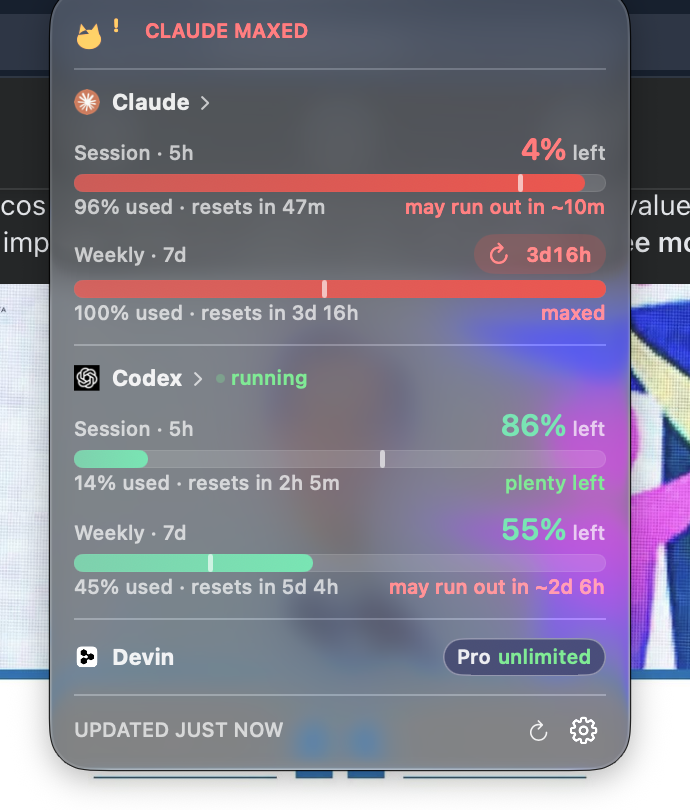
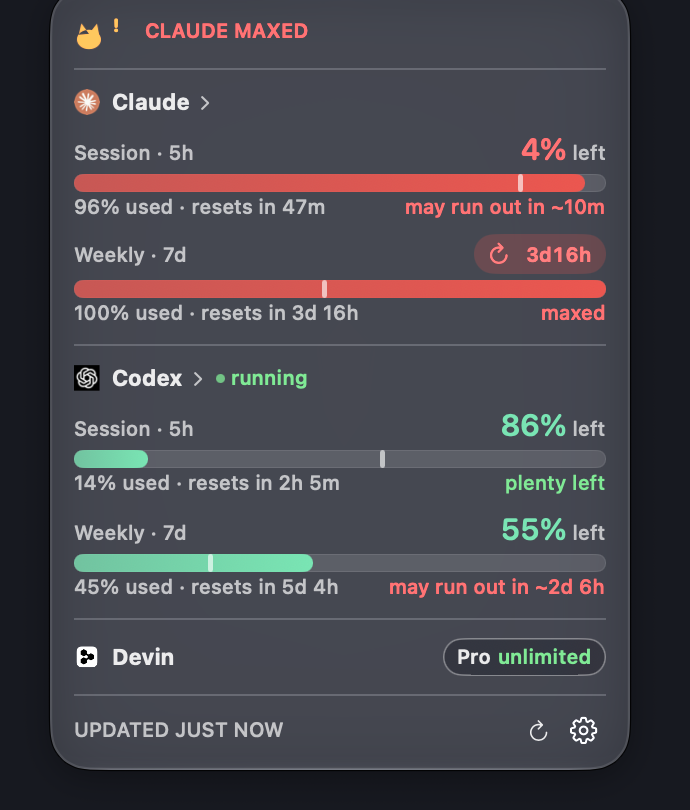
Add demo gif, social card, meow sound, Homebrew cask, landing sync
- demo.gif: recorded popover demo for README/social use
- social.png: 1280x640 social preview card
- meow.caf + MeowSound: optional chirp on limit reset (Settings toggle, off by default)
- Casks/meowbar.rb: Homebrew cask ready for a homebrew-meowbar tap repo
- index.html: download links now point at GitHub Releases; new pace/history cards
- preview.png: regenerated over a dark backdrop for cleaner glass

Generated with [Devin](https://devin.ai)

diff --git a/index.html b/index.html
@@ -292,7 +292,7 @@
       MeowBar
     </a>
     <div class="nav-links">
-      <a href="MeowBar.dmg" class="nav-btn" download>Download</a>
+      <a href="https://github.com/debugged-me/MeowBar/releases/latest/download/MeowBar.dmg" class="nav-btn">Download</a>
     </div>
   </div>
 </nav>
@@ -300,8 +300,8 @@
 <header class="hero">
   <h1 class="hero-title">Your AI limits,<br>in the menu bar.</h1>
   <p class="hero-desc">A tiny native app that reads your existing Claude Code and Codex sign-ins and shows how much of each limit you have left. No accounts, no API keys.</p>
-  <a class="hero-btn" href="MeowBar.dmg" download>Download for macOS</a>
-  <p class="hero-meta" id="dl-meta">v1.1 · Apple Silicon · macOS 14+ · free</p>
+  <a class="hero-btn" href="https://github.com/debugged-me/MeowBar/releases/latest/download/MeowBar.dmg">Download for macOS</a>
+  <p class="hero-meta" id="dl-meta">v1.2 · Apple Silicon · macOS 14+ · free</p>
 </header>
 
 <section class="demo" aria-label="What MeowBar looks like">
@@ -379,6 +379,20 @@
         </span>
         <h3 class="card-name">Private by design</h3>
         <p class="card-text">No sign-in, no analytics, no telemetry. It reads the credentials already on your Mac and only calls the endpoints your CLIs use.</p>
+      </div>
+      <div class="card">
+        <span class="card-icon">
+          <svg viewBox="0 0 24 24" fill="none" stroke="currentColor" stroke-width="1.8" aria-hidden="true"><path d="M4.5 19a9 9 0 1115 0"/><path d="M12 13l4-5"/><circle cx="12" cy="13" r="1.4" fill="currentColor"/></svg>
+        </span>
+        <h3 class="card-name">Pace, not just points</h3>
+        <p class="card-text">Every bar knows where an even burn would be — and tells you in green, orange or red: <em>plenty left</em>, <em>cutting it close</em>, <em>may run out in ~2d</em>. The menu bar can even show time until empty.</p>
+      </div>
+      <div class="card">
+        <span class="card-icon">
+          <svg viewBox="0 0 24 24" fill="none" stroke="currentColor" stroke-width="1.8" aria-hidden="true"><path d="M3 3v18h18"/><path d="M7 14l4-4 4 3 5-7"/></svg>
+        </span>
+        <h3 class="card-name">History &amp; alerts</h3>
+        <p class="card-text">Click a provider for its last 7 days and a 24h burn sparkline. Nudges at 75/90/95% and on reset — and right-click the bar for a full menu.</p>
       </div>
       <div class="card">
         <span class="card-icon">

diff --git a/MeowBar/Sources/main.swift b/MeowBar/Sources/main.swift
@@ -153,6 +153,7 @@ final class UsageStore: ObservableObject {
                     for (a, b) in [(old.session, u.session), (old.weekly, u.weekly)]
                     where (a?.usedPercent ?? 0) - (b?.usedPercent ?? 0) >= 40 {
                         self.celebrateUntil = now.addingTimeInterval(60)
+                        MeowSound.play()
                     }
                 }
                 self.lastUpdated = now
@@ -384,6 +385,21 @@ final class UsageStore: ObservableObject {
             return "\(u.name): " + (nums.isEmpty ? (u.error ?? "…") : nums)
         }
         return [line(claude), line(codex)].joined(separator: "    ")
+    }
+}
+
+// The little celebration chirp when a limit window resets — off by default,
+// Settings → Alerts → "Meow when a limit resets". Bundled synth, plays once.
+enum MeowSound {
+    private static var sound: NSSound?
+
+    static func play() {
+        guard UserDefaults.standard.bool(forKey: "meowbar.meowSound") else { return }
+        if sound == nil {
+            sound = Bundle.main.url(forResource: "meow", withExtension: "caf")
+                .flatMap { NSSound(contentsOf: $0, byReference: false) }
+        }
+        sound?.play()
     }
 }
 

diff --git a/MeowBar/Sources/SettingsView.swift b/MeowBar/Sources/SettingsView.swift
@@ -15,6 +15,7 @@ struct SettingsView: View {
     @AppStorage("meowbar.alert90") var alert90 = true
     @AppStorage("meowbar.alert95") var alert95 = true
     @AppStorage("meowbar.alertReset") var alertReset = true
+    @AppStorage("meowbar.meowSound") var meowSound = false
     @AppStorage("meowbar.launchAtLogin") var launchAtLogin = false
     @AppStorage("meowbar.autoClock") var autoClock = true
     @AppStorage("meowbar.hotkey") var hotkey = HotKey.defaultID
@@ -45,6 +46,7 @@ struct SettingsView: View {
                 Toggle("Nudge at 90% used", isOn: $alert90)
                 Toggle("Nudge at 95% used", isOn: $alert95)
                 Toggle("When a limit resets", isOn: $alertReset)
+                Toggle("Meow when a limit resets", isOn: $meowSound)
             }
 
             Section("Claude") {
@@ -129,6 +131,7 @@ struct SettingsView: View {
         .onChange(of: alert90) { changed() }
         .onChange(of: alert95) { changed() }
         .onChange(of: alertReset) { changed() }
+        .onChange(of: meowSound) { changed() }
         .onChange(of: autoClock) { changed() }
         .onChange(of: hotkey) { changed() }
         .onChange(of: launchAtLogin) { applyLoginItem() }

diff --git a/Casks/meowbar.rb b/Casks/meowbar.rb
@@ -1,0 +1,22 @@
+# Homebrew cask for MeowBar.
+#
+# To publish: create a repo named "homebrew-meowbar" under debugged-me, push
+# this file to Casks/meowbar.rb there, and users can then:
+#   brew tap debugged-me/meowbar
+#   brew install --cask meowbar
+cask "meowbar" do
+  version "1.2"
+  sha256 :no_check
+
+  url "https://github.com/debugged-me/MeowBar/releases/download/v#{version}/MeowBar.dmg"
+  name "MeowBar"
+  desc "Claude Code and Codex usage limits in your menu bar"
+  homepage "https://github.com/debugged-me/MeowBar"
+
+  app "MeowBar.app"
+
+  zap trash: [
+    "~/Library/Application Support/MeowBar",
+    "~/Library/Preferences/com.meowbar.app.plist",
+  ]
+end

diff --git a/README.md b/README.md
@@ -30,7 +30,7 @@
 [What it shows](#what-it-shows) | [Install](#install) | [Make it yours](#make-it-yours) | [Tips](#tips) | [Troubleshooting](#troubleshooting)
 
 <p align="center">
-  <img src="preview.png" alt="The MeowBar popover: Claude maxed, Codex running" width="600">
+  <img src="demo.gif" alt="MeowBar in action: limits, pace verdicts, history" width="560">
 </p>
 
 ## Why
